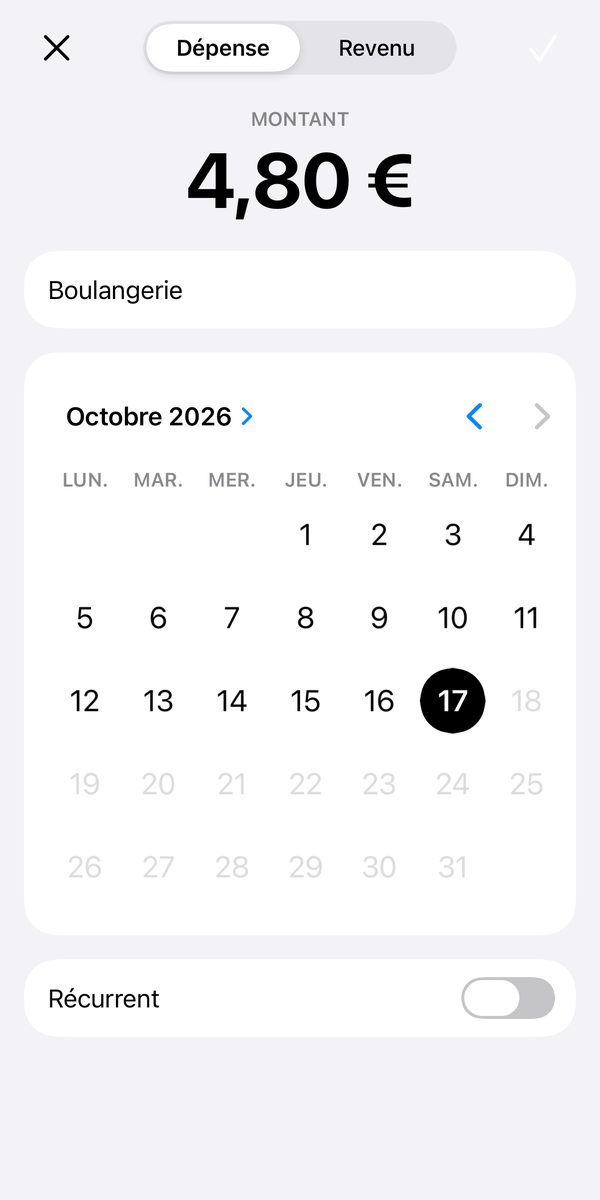
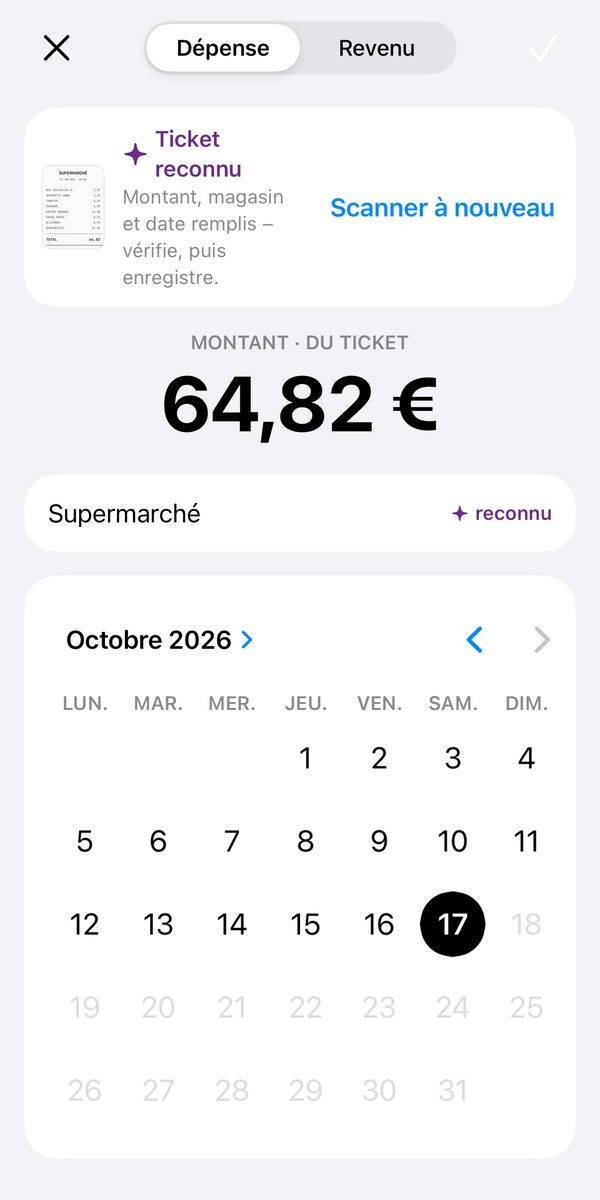
Tilla: receipt scanning on the page, the privacy policy covers receipt photos
- Feature 01 mentions scanning a receipt; screen 02 shows "Beleg erkannt" in
  every language.
- Privacy policy (all languages, dated 4 November 2026): photos of scanned
  receipts are stored like the other entries (devices + the user's iCloud);
  new section on scanning – camera only on "Beleg scannen", recognition on
  the iPhone, the photo goes with the expense.

diff --git a/tilla/privacy/index.html b/tilla/privacy/index.html
@@ -38,12 +38,14 @@ h1,h2,h3{letter-spacing:-.01em}h1{font-weight:800;letter-spacing:-.02em}
 
 <article lang="de" data-lang="de" data-title="Tilla – Datenschutz">
 <h1>Datenschutz</h1>
-<p class="meta">Stand: 3. November 2026</p>
+<p class="meta">Stand: 4. November 2026</p>
 <section>
 <h2>Kurz gesagt</h2>
 <p>Tilla sammelt keine Daten. Es gibt keinen Tilla-Server, keine Werbung, kein Tracking und keine Analysedienste. Ich als Entwickler kann eure Einträge nicht sehen.</p>
 <h2>Wo eure Daten liegen</h2>
-<p>Eure Ausgaben, Einnahmen, festen Ausgaben, Namen und Profilbilder werden auf euren Geräten und in eurem privaten iCloud gespeichert (Apple CloudKit). Dafür gelten die Datenschutzbestimmungen von Apple. Wenn ihr den Haushalt teilt, sehen alle Personen im Haushalt dieselben Einträge.</p>
+<p>Eure Ausgaben, Einnahmen, festen Ausgaben, Namen, Profilbilder und Fotos gescannter Belege werden auf euren Geräten und in eurem privaten iCloud gespeichert (Apple CloudKit). Dafür gelten die Datenschutzbestimmungen von Apple. Wenn ihr den Haushalt teilt, sehen alle Personen im Haushalt dieselben Einträge.</p>
+<h2>Belege scannen</h2>
+<p>Die Kamera nutzt Tilla nur, wenn ihr „Beleg scannen“ antippt. Summe, Geschäft und Datum werden direkt auf dem iPhone erkannt; das Foto wird dafür an niemanden geschickt. Gespeichert wird es wie eure anderen Einträge auf euren Geräten und in eurem iCloud, und alle im Haushalt können es sehen. Mit der Ausgabe wird auch das Foto gelöscht.</p>
 <h2>Apple Pay, Siri und Mitteilungen</h2>
 <p>Die Apple-Pay-Erfassung läuft über eine Automation, die ihr selbst in der Kurzbefehle-App anlegt. Sie gibt nur Betrag und Händler an Tilla weiter, keine Kartendaten. Siri, Kurzbefehle, Face ID, Touch ID und Erinnerungen laufen über iOS auf eurem Gerät.</p>
 <h2>TestFlight</h2>
@@ -60,12 +62,14 @@ h1,h2,h3{letter-spacing:-.01em}h1{font-weight:800;letter-spacing:-.02em}
 
 <article lang="en" data-lang="en" data-title="Tilla – Privacy">
 <h1>Privacy</h1>
-<p class="meta">Last updated: November 3, 2026</p>
+<p class="meta">Last updated: November 4, 2026</p>
 <section>
 <h2>In short</h2>
 <p>Tilla collects no data. There is no Tilla server, no ads, no tracking and no analytics. As the developer, I can’t see your entries.</p>
 <h2>Where your data lives</h2>
-<p>Your expenses, income, fixed costs, names and profile pictures are stored on your devices and in your private iCloud (Apple CloudKit), under Apple’s privacy policy. When you share a household, everyone in it sees the same entries.</p>
+<p>Your expenses, income, fixed costs, names, profile pictures and photos of scanned receipts are stored on your devices and in your private iCloud (Apple CloudKit), under Apple’s privacy policy. When you share a household, everyone in it sees the same entries.</p>
+<h2>Scanning receipts</h2>
+<p>Tilla uses the camera only when you tap “Scan receipt”. The total, the shop and the date are recognised right on your iPhone; the photo isn’t sent to anyone for this. It’s stored like your other entries, on your devices and in your iCloud, and everyone in the household can see it. Deleting the expense deletes the photo too.</p>
 <h2>Apple Pay, Siri and notifications</h2>
 <p>Apple Pay capture runs through an automation you set up yourself in the Shortcuts app. It passes only the amount and merchant to Tilla, never card data. Siri, Shortcuts, Face ID, Touch ID and reminders run through iOS on your device.</p>
 <h2>TestFlight</h2>
@@ -82,12 +86,14 @@ h1,h2,h3{letter-spacing:-.01em}h1{font-weight:800;letter-spacing:-.02em}
 
 <article lang="es" data-lang="es" data-title="Tilla – Privacidad">
 <h1>Privacidad</h1>
-<p class="meta">Última actualización: 3 de noviembre de 2026</p>
+<p class="meta">Última actualización: 4 de noviembre de 2026</p>
 <section>
 <h2>En resumen</h2>
 <p>Tilla no recopila datos. No hay servidor de Tilla, ni anuncios, ni rastreo, ni servicios de análisis. Como desarrollador, no puedo ver vuestras entradas.</p>
 <h2>Dónde están vuestros datos</h2>
-<p>Vuestros gastos, ingresos, gastos fijos, nombres y fotos de perfil se guardan en vuestros dispositivos y en vuestro iCloud privado (Apple CloudKit), según la política de privacidad de Apple. Si compartís el hogar, todas las personas del hogar ven las mismas entradas.</p>
+<p>Vuestros gastos, ingresos, gastos fijos, nombres, fotos de perfil y fotos de recibos escaneados se guardan en vuestros dispositivos y en vuestro iCloud privado (Apple CloudKit), según la política de privacidad de Apple. Si compartís el hogar, todas las personas del hogar ven las mismas entradas.</p>
+<h2>Escanear recibos</h2>
+<p>Tilla solo usa la cámara cuando tocáis «Escanear recibo». El total, la tienda y la fecha se reconocen en el propio iPhone; para ello la foto no se envía a nadie. Se guarda como vuestras demás entradas, en vuestros dispositivos y en vuestro iCloud, y todas las personas del hogar pueden verla. Al eliminar el gasto, también se elimina la foto.</p>
 <h2>Apple Pay, Siri y notificaciones</h2>
 <p>El registro de Apple Pay funciona con una automatización que creáis vosotros en la app Atajos. Solo pasa a Tilla el importe y el comercio, nunca datos de la tarjeta. Siri, Atajos, Face ID, Touch ID y los recordatorios funcionan a través de iOS en vuestro dispositivo.</p>
 <h2>TestFlight</h2>
@@ -104,12 +110,14 @@ h1,h2,h3{letter-spacing:-.01em}h1{font-weight:800;letter-spacing:-.02em}
 
 <article lang="fr" data-lang="fr" data-title="Tilla – Confidentialité">
 <h1>Confidentialité</h1>
-<p class="meta">Dernière mise à jour&nbsp;: 3&nbsp;novembre 2026</p>
+<p class="meta">Dernière mise à jour&nbsp;: 4&nbsp;novembre 2026</p>
 <section>
 <h2>En bref</h2>
 <p>Tilla ne collecte aucune donnée. Pas de serveur Tilla, pas de publicité, pas de pistage, pas d’outils d’analyse. En tant que développeur, je ne peux pas voir vos entrées.</p>
 <h2>Où sont vos données</h2>
-<p>Vos dépenses, revenus, dépenses fixes, noms et photos de profil sont enregistrés sur vos appareils et dans votre iCloud privé (Apple CloudKit), selon la politique de confidentialité d’Apple. Si vous partagez le foyer, toutes les personnes du foyer voient les mêmes entrées.</p>
+<p>Vos dépenses, revenus, dépenses fixes, noms, photos de profil et photos de tickets scannés sont enregistrés sur vos appareils et dans votre iCloud privé (Apple CloudKit), selon la politique de confidentialité d’Apple. Si vous partagez le foyer, toutes les personnes du foyer voient les mêmes entrées.</p>
+<h2>Scanner des tickets</h2>
+<p>Tilla n’utilise l’appareil photo que lorsque vous touchez «&nbsp;Scanner un ticket&nbsp;». Le total, le magasin et la date sont reconnus directement sur l’iPhone&nbsp;; la photo n’est envoyée à personne pour cela. Elle est enregistrée comme vos autres entrées, sur vos appareils et dans votre iCloud, et toutes les personnes du foyer peuvent la voir. Supprimer la dépense supprime aussi la photo.</p>
 <h2>Apple Pay, Siri et notifications</h2>
 <p>L’enregistrement Apple Pay passe par une automatisation que vous créez vous-mêmes dans l’app Raccourcis. Elle ne transmet à Tilla que le montant et le commerçant, jamais les données de carte. Siri, Raccourcis, Face ID, Touch ID et les rappels passent par iOS sur votre appareil.</p>
 <h2>TestFlight</h2>
@@ -126,12 +134,14 @@ h1,h2,h3{letter-spacing:-.01em}h1{font-weight:800;letter-spacing:-.02em}
 
 <article lang="it" data-lang="it" data-title="Tilla – Privacy">
 <h1>Privacy</h1>
-<p class="meta">Ultimo aggiornamento: 3 novembre 2026</p>
+<p class="meta">Ultimo aggiornamento: 4 novembre 2026</p>
 <section>
 <h2>In breve</h2>
 <p>Tilla non raccoglie dati. Nessun server di Tilla, nessuna pubblicità, nessun tracciamento e nessun servizio di analisi. Come sviluppatore non posso vedere le vostre voci.</p>
 <h2>Dove sono i vostri dati</h2>
-<p>Spese, entrate, spese fisse, nomi e foto profilo vengono salvati sui vostri dispositivi e nel vostro iCloud privato (Apple CloudKit), secondo l’informativa sulla privacy di Apple. Se condividete la casa, tutte le persone che ne fanno parte vedono le stesse voci.</p>
+<p>Spese, entrate, spese fisse, nomi, foto profilo e foto degli scontrini scansionati vengono salvati sui vostri dispositivi e nel vostro iCloud privato (Apple CloudKit), secondo l’informativa sulla privacy di Apple. Se condividete la casa, tutte le persone che ne fanno parte vedono le stesse voci.</p>
+<h2>Scansionare gli scontrini</h2>
+<p>Tilla usa la fotocamera solo quando toccate «Scansiona scontrino». Totale, negozio e data vengono riconosciuti direttamente sull’iPhone; per questo la foto non viene inviata a nessuno. Viene salvata come le altre voci, sui vostri dispositivi e nel vostro iCloud, e tutte le persone della casa possono vederla. Eliminando la spesa si elimina anche la foto.</p>
 <h2>Apple Pay, Siri e notifiche</h2>
 <p>La registrazione di Apple Pay funziona con un’automazione che create voi nell’app Comandi Rapidi. Passa a Tilla solo l’importo e l’esercente, mai i dati della carta. Siri, Comandi Rapidi, Face ID, Touch ID e i promemoria funzionano tramite iOS sul vostro dispositivo.</p>
 <h2>TestFlight</h2>

diff --git a/tilla/index.html b/tilla/index.html
@@ -123,9 +123,9 @@ footer a{text-decoration:none}
 <section class="features wrap" id="de-features">
 <h2 class="section-title">So funktioniert Tilla</h2>
 <div class="feature">
-<div class="phone"><img src="screens/de/02.jpg" width="600" height="1304" loading="lazy" decoding="async" alt="Neue Ausgabe eintragen"></div>
+<div class="phone"><img src="screens/de/02.jpg" width="600" height="1304" loading="lazy" decoding="async" alt="Beleg erkannt: 64,82 € im Supermarkt"></div>
 <div class="feature-text">
-<span class="num">01</span><h3>In Sekunden eingetragen</h3><p>Betrag tippen, schreiben wofür, fertig. Das Datum steht schon auf heute, ein anderer Tag ist nur einen Tipp entfernt.</p>
+<span class="num">01</span><h3>In Sekunden eingetragen</h3><p>Betrag tippen, schreiben wofür, fertig. Oder den Kassenbon scannen: Tilla erkennt Summe, Geschäft und Datum direkt auf dem iPhone, und das Foto bleibt bei der Ausgabe.</p>
 <div class="note"><strong>Apple Pay automatisch erfassen</strong><p>Mit einer Automation in der Kurzbefehle-App schlägt Tilla nach jeder Zahlung mit dem iPhone die Ausgabe vor. Ein Tipp auf „Hinzufügen“ genügt – oder Tilla trägt sie direkt ein. <a href="shortcut/#de">Zum Kurzbefehl →</a></p></div>
 </div></div>
 <div class="feature">
@@ -177,9 +177,9 @@ footer a{text-decoration:none}
 <section class="features wrap" id="en-features">
 <h2 class="section-title">How Tilla works</h2>
 <div class="feature">
-<div class="phone"><img src="screens/en/02.jpg" width="600" height="1304" loading="lazy" decoding="async" alt="Adding a new expense"></div>
+<div class="phone"><img src="screens/en/02.jpg" width="600" height="1304" loading="lazy" decoding="async" alt="Receipt recognised: €64.82 at the supermarket"></div>
 <div class="feature-text">
-<span class="num">01</span><h3>Logged in seconds</h3><p>Type the amount, say what it was for, done. The date is already set to today; another day is one tap away.</p>
+<span class="num">01</span><h3>Logged in seconds</h3><p>Type the amount, say what it was for, done. Or scan the receipt: Tilla recognises the total, the shop and the date right on your iPhone, and the photo stays with the expense.</p>
 <div class="note"><strong>Capture Apple Pay automatically</strong><p>With an automation in the Shortcuts app, Tilla suggests the expense after every payment with your iPhone. One tap on “Add” is enough – or let Tilla add it straight away. <a href="shortcut/#en">Get the shortcut →</a></p></div>
 </div></div>
 <div class="feature">
@@ -231,9 +231,9 @@ footer a{text-decoration:none}
 <section class="features wrap" id="es-features">
 <h2 class="section-title">Así funciona Tilla</h2>
 <div class="feature">
-<div class="phone"><img src="screens/es/02.jpg" width="600" height="1304" loading="lazy" decoding="async" alt="Añadir un gasto nuevo"></div>
+<div class="phone"><img src="screens/es/02.jpg" width="600" height="1304" loading="lazy" decoding="async" alt="Recibo reconocido: 64,82 € en el supermercado"></div>
 <div class="feature-text">
-<span class="num">01</span><h3>Registrado en segundos</h3><p>Escribid el importe y para qué fue, y listo. La fecha ya es la de hoy; otro día está a un toque.</p>
+<span class="num">01</span><h3>Registrado en segundos</h3><p>Escribid el importe y para qué fue, y listo. O escanead el recibo: Tilla reconoce el total, la tienda y la fecha en el propio iPhone, y la foto se queda con el gasto.</p>
 <div class="note"><strong>Apple Pay, sin esfuerzo</strong><p>Con una automatización en la app Atajos, Tilla os propone el gasto después de cada pago con el iPhone. Basta con tocar «Añadir», o dejad que Tilla lo apunte directamente. <a href="shortcut/#es">Ir al atajo →</a></p></div>
 </div></div>
 <div class="feature">
@@ -285,9 +285,9 @@ footer a{text-decoration:none}
 <section class="features wrap" id="fr-features">
 <h2 class="section-title">Comment fonctionne Tilla</h2>
 <div class="feature">
-<div class="phone"><img src="screens/fr/02.jpg" width="600" height="1304" loading="lazy" decoding="async" alt="Ajouter une nouvelle dépense"></div>
+<div class="phone"><img src="screens/fr/02.jpg" width="600" height="1304" loading="lazy" decoding="async" alt="Ticket reconnu : 64,82 € au supermarché"></div>
 <div class="feature-text">
-<span class="num">01</span><h3>Saisi en quelques secondes</h3><p>Tapez le montant, indiquez pour quoi, c’est fait. La date est déjà celle du jour ; un autre jour n’est qu’à un toucher.</p>
+<span class="num">01</span><h3>Saisi en quelques secondes</h3><p>Tapez le montant, indiquez pour quoi, c’est fait. Ou scannez le ticket : Tilla reconnaît le total, le magasin et la date directement sur l’iPhone, et la photo reste avec la dépense.</p>
 <div class="note"><strong>Apple Pay, automatiquement</strong><p>Grâce à une automatisation dans l’app Raccourcis, Tilla vous propose la dépense après chaque paiement avec l’iPhone. Un toucher sur « Ajouter » suffit – ou laissez Tilla l’ajouter directement. <a href="shortcut/#fr">Voir le raccourci →</a></p></div>
 </div></div>
 <div class="feature">
@@ -339,9 +339,9 @@ footer a{text-decoration:none}
 <section class="features wrap" id="it-features">
 <h2 class="section-title">Come funziona Tilla</h2>
 <div class="feature">
-<div class="phone"><img src="screens/it/02.jpg" width="600" height="1304" loading="lazy" decoding="async" alt="Aggiungere una nuova spesa"></div>
+<div class="phone"><img src="screens/it/02.jpg" width="600" height="1304" loading="lazy" decoding="async" alt="Scontrino riconosciuto: 64,82 € al supermercato"></div>
 <div class="feature-text">
-<span class="num">01</span><h3>Registrato in pochi secondi</h3><p>Digitate l’importo, scrivete per cosa, fatto. La data è già quella di oggi; un altro giorno è a un tocco di distanza.</p>
+<span class="num">01</span><h3>Registrato in pochi secondi</h3><p>Digitate l’importo, scrivete per cosa, fatto. Oppure scansionate lo scontrino: Tilla riconosce totale, negozio e data direttamente sull’iPhone, e la foto resta con la spesa.</p>
 <div class="note"><strong>Apple Pay, in automatico</strong><p>Con un’automazione nell’app Comandi Rapidi, Tilla vi propone la spesa dopo ogni pagamento con l’iPhone. Basta un tocco su «Aggiungi» – oppure lasciate che Tilla la registri subito. <a href="shortcut/#it">Vai al comando rapido →</a></p></div>
 </div></div>
 <div class="feature">
